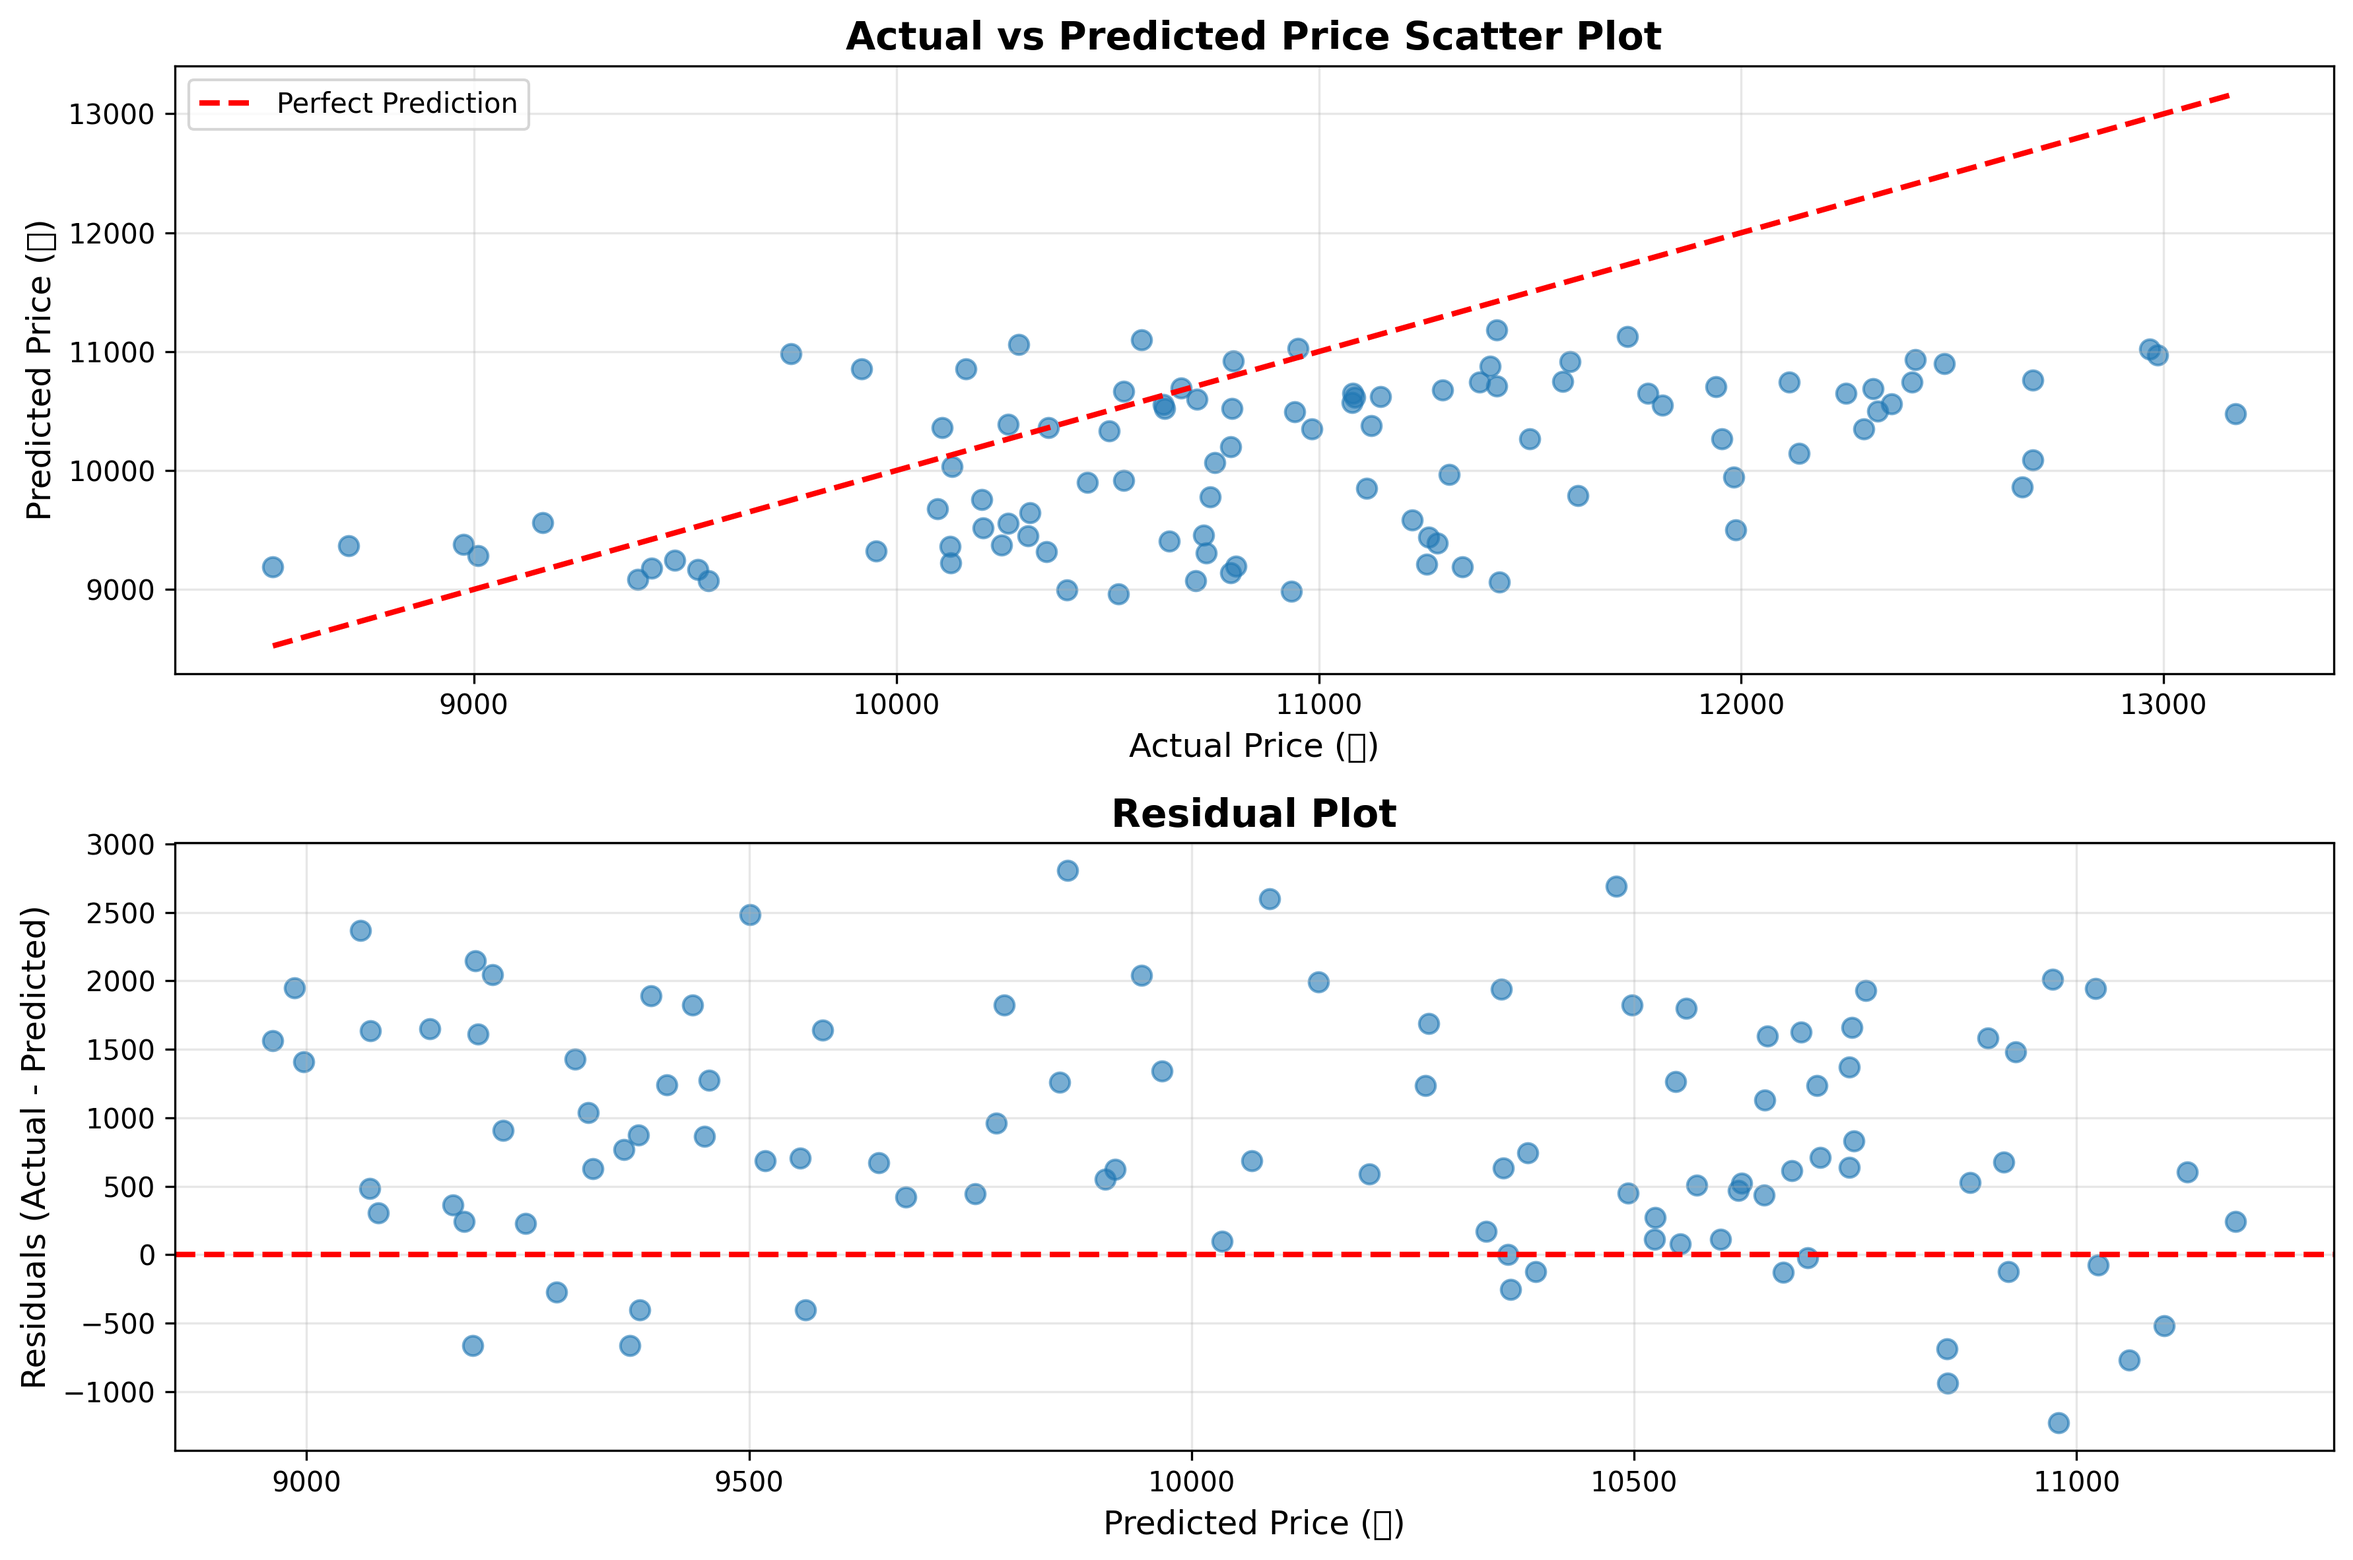
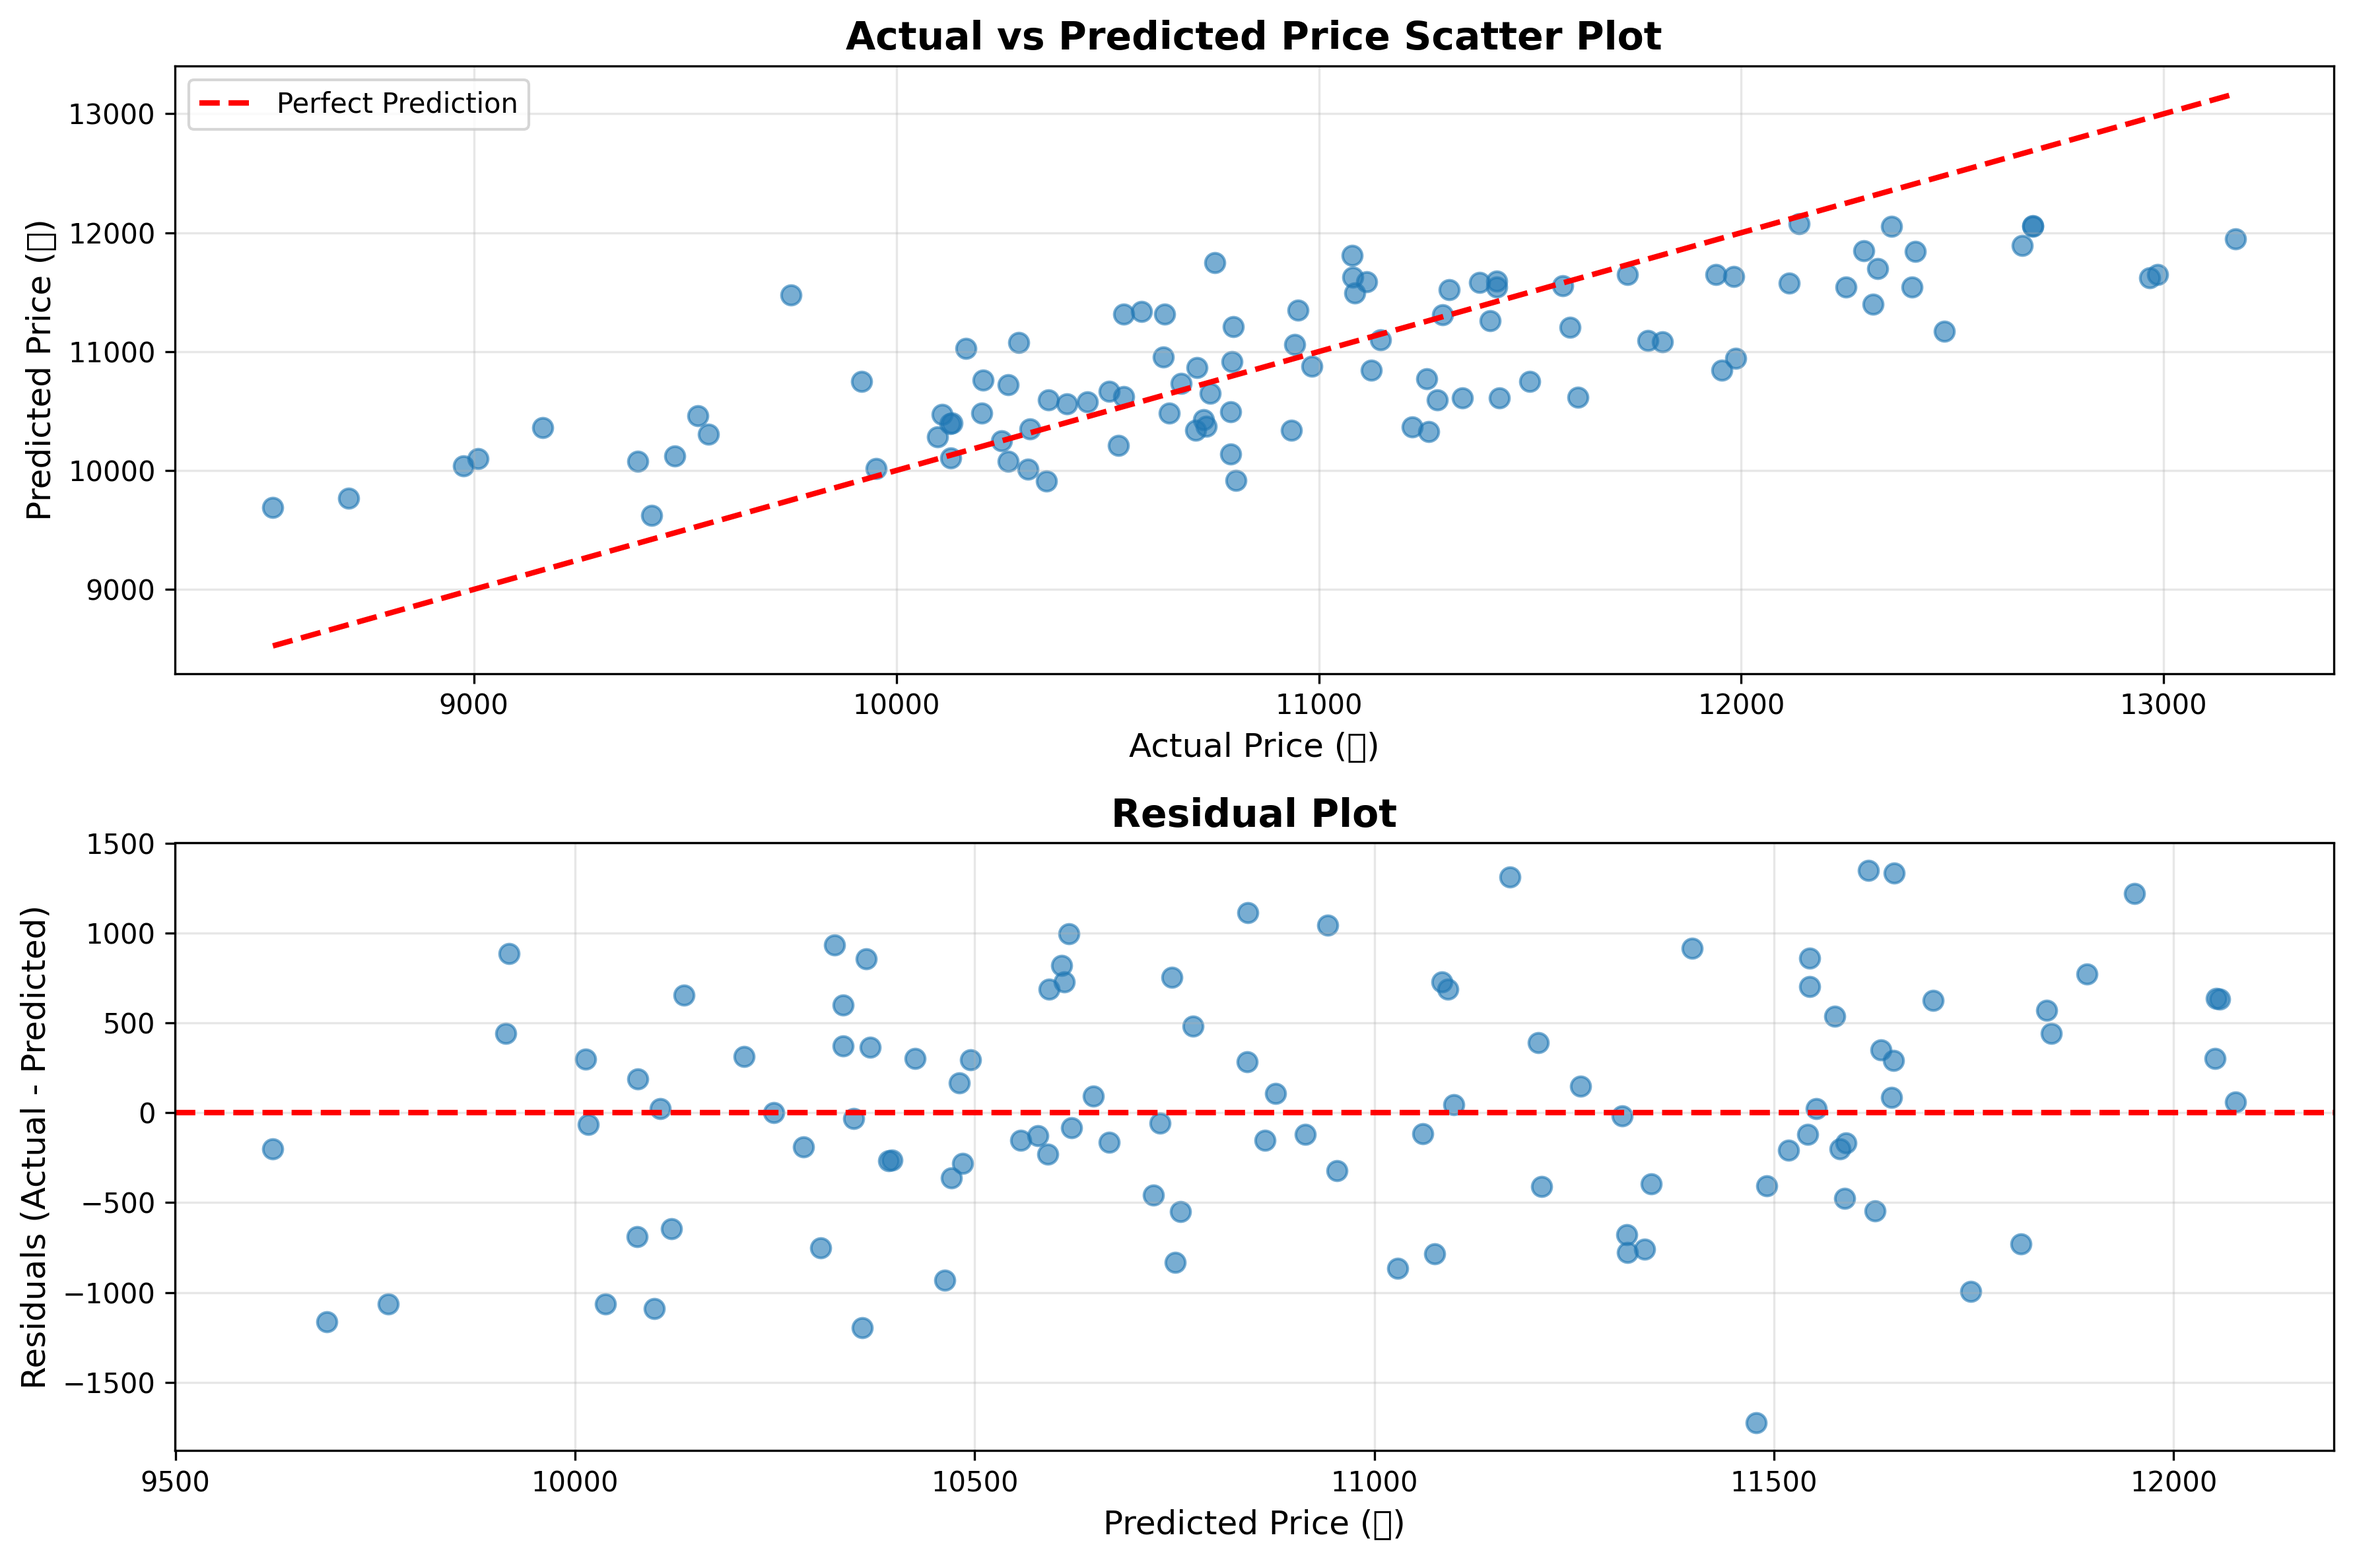
feat: 모델 검증 로직 수정

diff --git a/pred/ml/models/price_anomaly.py b/pred/ml/models/price_anomaly.py
@@ -11,6 +11,8 @@ Price Anomaly 추천 모델
 from typing import Any, Dict, List, Optional
 from datetime import datetime, timedelta
 
+import pandas as pd
+
 from ml.base import HybridModel, RecommendationContext
 from ml.model_loader import model_loader
 from data.repositories.price_repo import (
@@ -618,3 +620,52 @@ class PriceAnomalyModel(HybridModel):
         result_ratio = min(1.0, len(products) / 10.0)
 
         return min(1.0, base_confidence * result_ratio)
+
+
+class SelFPriceAnalyzer:
+    """가격 예측(self_price_analyzer)용 단순 분석기.
+
+    원래는 Prophet 기반 모델을 사용하지만, 실행 환경 제약을 고려해
+    직렬화된 패킷의 메타데이터만 활용하고, 시계열의 완만한 추세선을
+    단순 지수이동평균(EMA)으로 근사합니다.
+
+    price_model_validation.py 와의 인터페이스 호환만을 목표로 합니다.
+    """
+
+    def __init__(self) -> None:
+        self._meta: Dict[str, Any] = {}
+
+    def load_from_packet(self, packet: Dict[str, Any]) -> None:
+        """Pickle 패킷 메타데이터 로드 (버전/스케일러 등).
+
+        실제 Prophet 모델은 복원하지 않고,
+        이후 analyze 단계에서 EMA 기반의 간단한 기대가격을 계산합니다.
+        """
+        self._meta = {
+            "version": packet.get("version"),
+            "created_at": packet.get("created_at"),
+            "model_type": packet.get("model_type"),
+        }
+
+    def analyze(self, df: pd.DataFrame) -> pd.DataFrame:
+        """입력 데이터에 대해 기대 가격(expected_price)을 계산.
+
+        - 입력: 'ds' (datetime), 'y' (실제 가격) 컬럼 포함
+        - 출력: 'expected_price' 컬럼이 추가된 DataFrame
+
+        구현: y 값에 대해 span=7 의 지수이동평균(EMA)을 적용해
+        완만한 추세선을 기대가격으로 사용합니다.
+        """
+        if "y" not in df.columns:
+            raise ValueError("입력 데이터에 'y' 컬럼이 필요합니다.")
+        if "ds" not in df.columns:
+            raise ValueError("입력 데이터에 'ds' 컬럼이 필요합니다.")
+
+        result = df.copy()
+        result = result.sort_values("ds").reset_index(drop=True)
+        y = result["y"].astype(float)
+
+        # 간단한 추세선: 7포인트 지수이동평균
+        expected = y.ewm(span=7, adjust=False).mean()
+        result["expected_price"] = expected.astype(float)
+        return result

diff --git a/pred/validate_check/price_model/price_model_validation.py b/pred/validate_check/price_model/price_model_validation.py
@@ -31,9 +31,16 @@ import joblib
 import pickle
 
 # 프로젝트 루트를 Python 경로에 추가
-project_root = Path(__file__).parent.parent
-sys.path.insert(0, str(project_root))
-sys.path.insert(0, str(Path(__file__).parent))
+# 이 스크립트는 보통 `cd pred` 후
+#   python validate_check/price_model/price_model_validation.py
+# 형태로 실행되므로, pred 디렉터리를 sys.path 에 넣어준다.
+project_root = Path(__file__).resolve().parents[2]  # .../pred
+if str(project_root) not in map(str, sys.path):
+    sys.path.insert(0, str(project_root))
+# 현재 파일이 있는 디렉터리도 경로에 추가(상대 import 대비)
+script_dir = Path(__file__).resolve().parent
+if str(script_dir) not in map(str, sys.path):
+    sys.path.insert(0, str(script_dir))
 
 from core.database import Database
 from core.config import settings
@@ -219,8 +226,10 @@ async def validate_price_model() -> Dict[str, Any]:
     # 1. 모델 로드 시도
     print("[1] 모델 로드")
     print("-" * 70)
-    
-    model_path = Path(__file__).parent / "models" / "self_price_analyzer_v1.pkl"
+
+    # pred/models/self_price_analyzer_v1.pkl 을 기본 경로로 사용
+    project_root = Path(__file__).resolve().parents[2]
+    model_path = project_root / "models" / "self_price_analyzer_v1.pkl"
     
     if not model_path.exists():
         print(f"[오류] 모델 파일을 찾을 수 없습니다: {model_path}")

diff --git a/pred/validate_check/price_model/price_scout_validation.py b/pred/validate_check/price_model/price_scout_validation.py
@@ -3,13 +3,27 @@
 실제 DB에 저장된 product_price_histories 데이터를 기반으로
 가격 하락률을 활용한 가성비 점수(PriceScout 값)를 계산하고
 랭킹 변화를 확인하기 위한 진단용 도구.
+
+이 스크립트는 보통 `cd pred` 후
+
+    python validate_check/price_model/price_scout_validation.py
+
+형태로 실행되므로, `core`, `data` 패키지를 임포트할 수 있도록
+프로젝트 루트(`pred` 디렉터리)를 sys.path 에 추가합니다.
 """
 
 import asyncio
 from datetime import datetime, timedelta
 from typing import Any, Dict, List
+from pathlib import Path
+import sys
 
 import pandas as pd
+
+# 프로젝트 루트를 Python 경로에 추가
+project_root = Path(__file__).resolve().parents[2]  # .../pred
+if str(project_root) not in map(str, sys.path):
+    sys.path.insert(0, str(project_root))
 
 from core.database import Database
 from data.repositories.price_repo import PriceHistoryRepository
